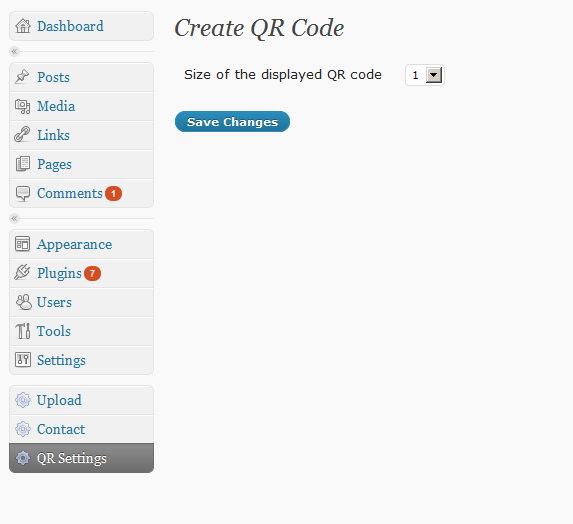
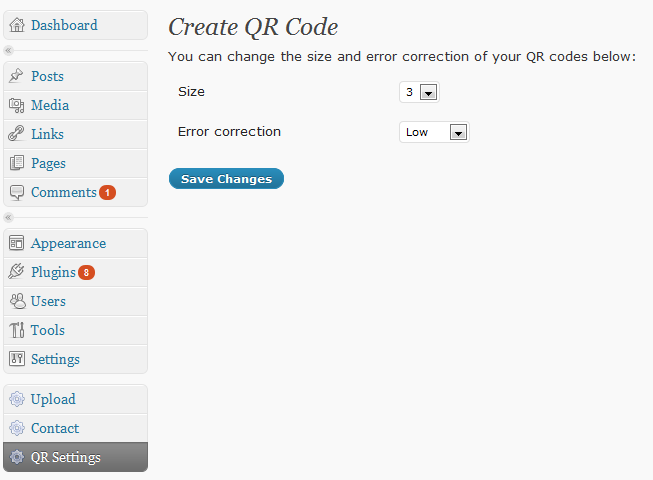
git-svn-id: https://plugins.svn.wordpress.org/create-qr-code-wordpress-plugin/trunk@246576 b8457f37-d9ea-0310-8a92-e5e31aec5664

diff --git a/createqr.php b/createqr.php
@@ -3,7 +3,7 @@
 Plugin Name: Create QR code plugin
 Plugin URI: http://www.arjentienkamp.com/weblog/projects/create-qr-code-wordpress-plugin/
 Description: Create QR codes for your Wordpress posts and pages
-Version: 1.3
+Version: 1.4
 Author: Arjen Tienkamp
 Author URI: http://www.arjentienkamp.com/weblog/
 License: GPL
@@ -37,7 +37,7 @@ function qrcode_show() {
 		
 		echo '<img class="qr" src="'.get_bloginfo('siteurl').'/wp-content/plugins/'.dirname(plugin_basename(__FILE__)).'/scripts/php/qr_img.php?d='."";
 		
-		echo ''.the_permalink().'&e=M&s='.get_option('size').'&t=J"/>'."\n";
+		echo ''.the_permalink().'&e='.get_option('correction').'&s='.get_option('size').'&t=J"/>'."\n";
 		
 		echo "</div>\n";
 		
@@ -73,6 +73,7 @@ function qr_create_menu() {
 function register_mysettings() {
 
 	register_setting( 'qr-settings-group', 'size' );
+	register_setting( 'qr-settings-group', 'correction' );
 
 }
 
@@ -85,11 +86,14 @@ function qr_settings_page() {
 <div class="wrap">
 <h2>Create QR Code</h2>
 
+
+You can change the size and error correction of your QR codes below:
+
 <form method="post" action="options.php">
     <?php settings_fields( 'qr-settings-group' ); ?>
     <table class="form-table">
         <tr valign="top">
-        <th scope="row">Size of the displayed QR code</th>
+        <th align="left" scope="row">Size</th>
         <td>
        
        
@@ -106,6 +110,26 @@ function qr_settings_page() {
         
         </td>
         </tr>
+        <tr valign="top">
+          <th align="left" scope="row">Error correction</th>
+          <td>
+          
+        <select name="correction" id="correction">
+        <?php
+        if (get_option('correction') == 'L' ) $sellow = " selected='selected'";
+        elseif (get_option('correction') == 'M' ) $selmed = " selected='selected'";
+        elseif (get_option('correction') == 'H' ) $selhigh = " selected='selected'";
+		else $selected = '';
+        echo "\n\t<option value='L' $sellow>Low</option>";
+        echo "\n\t<option value='M' $selmed>Medium</option>";
+        echo "\n\t<option value='H' $selhigh>High</option>";
+        ?>
+        </select>         
+          
+          
+          
+          </td>
+      </tr>
          
     </table>
     
